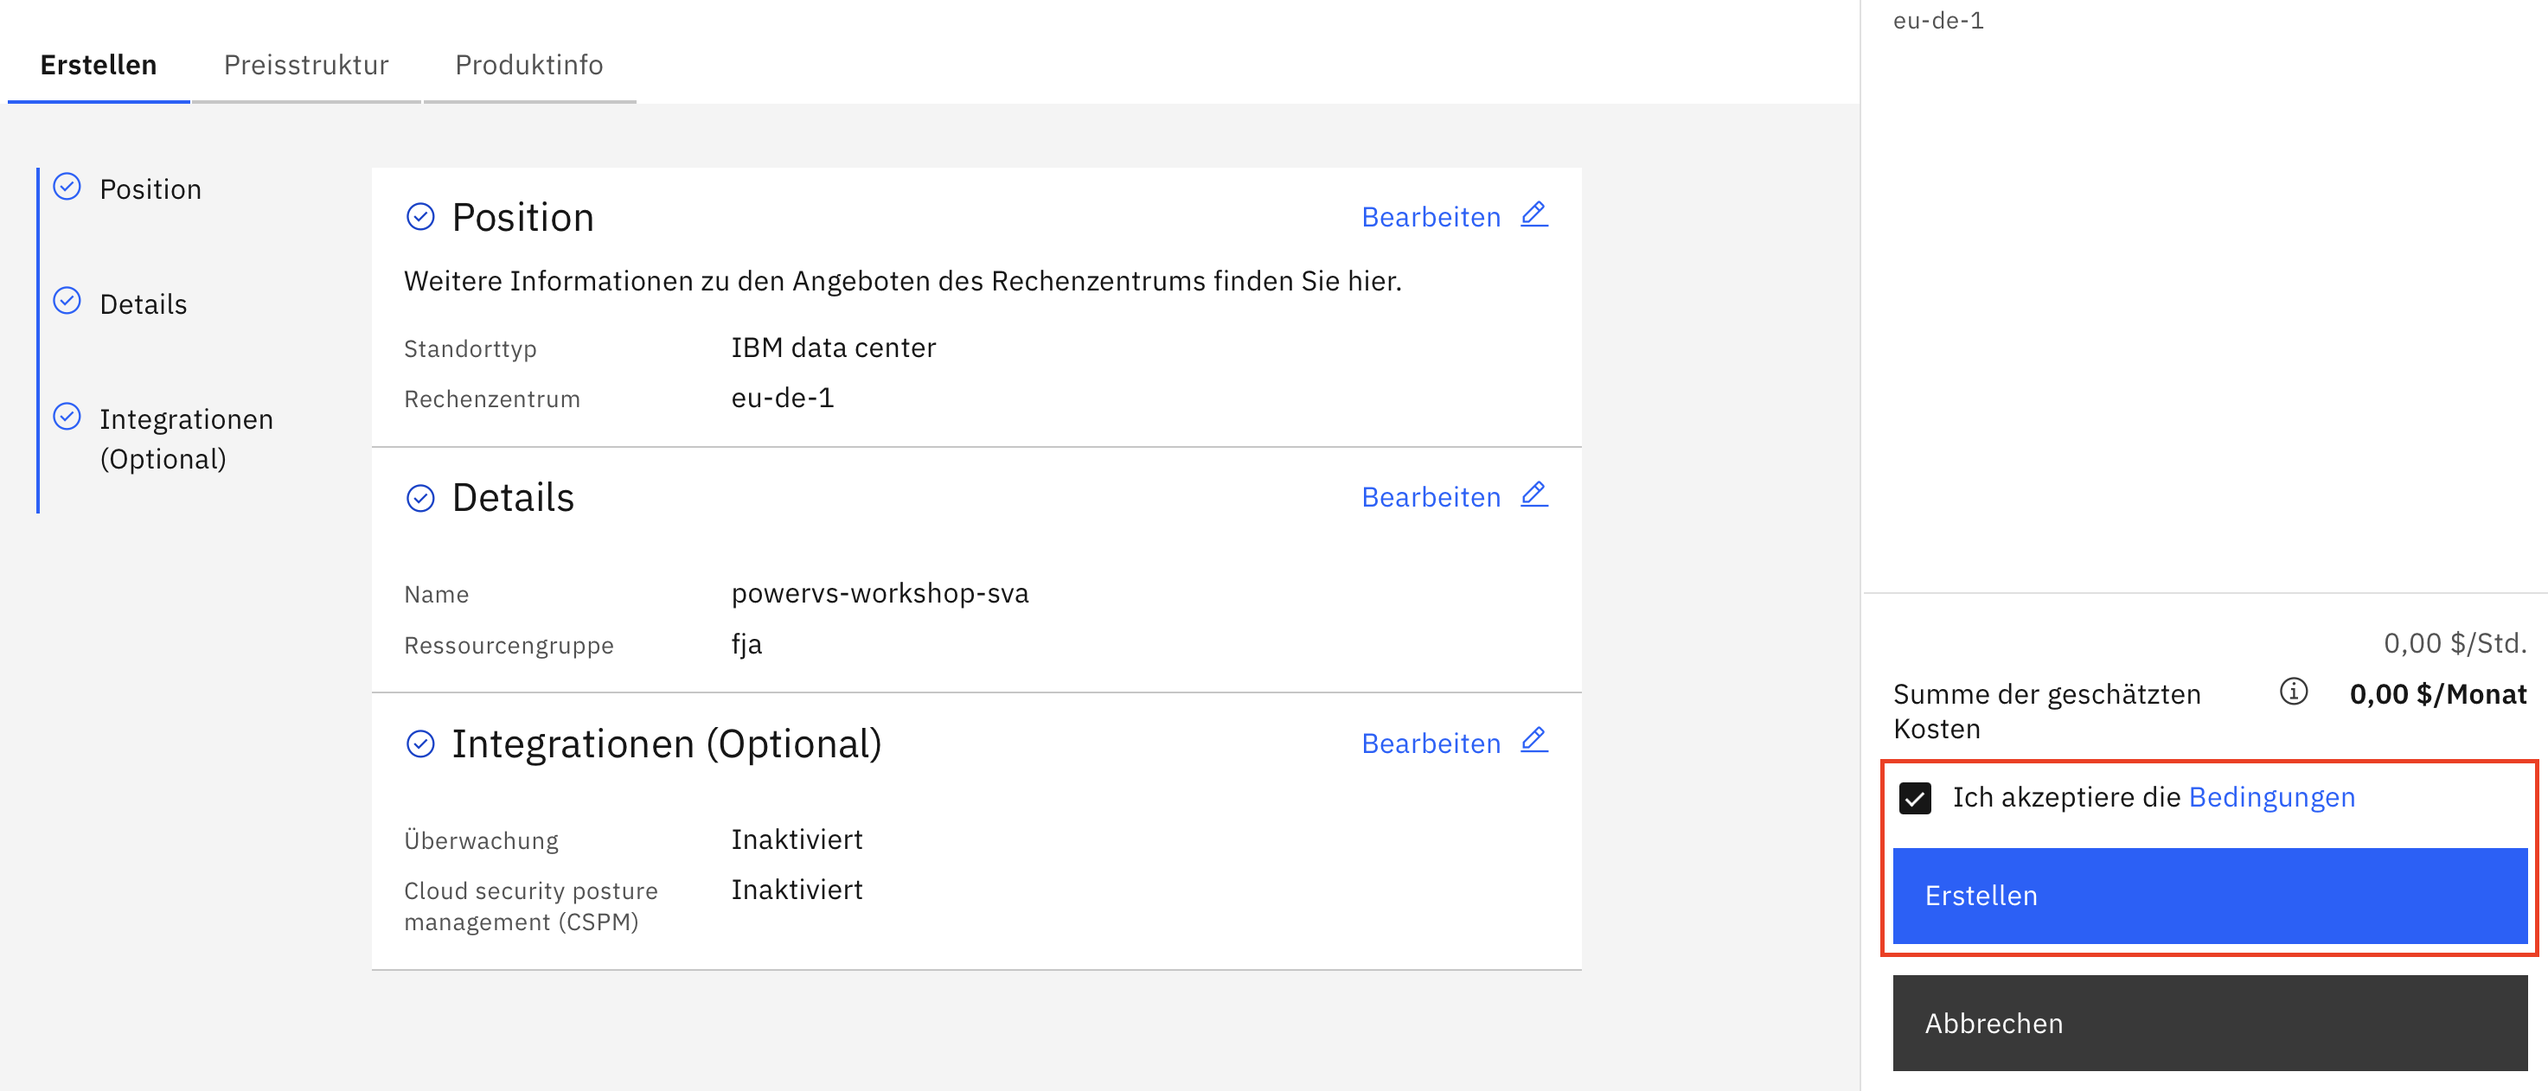
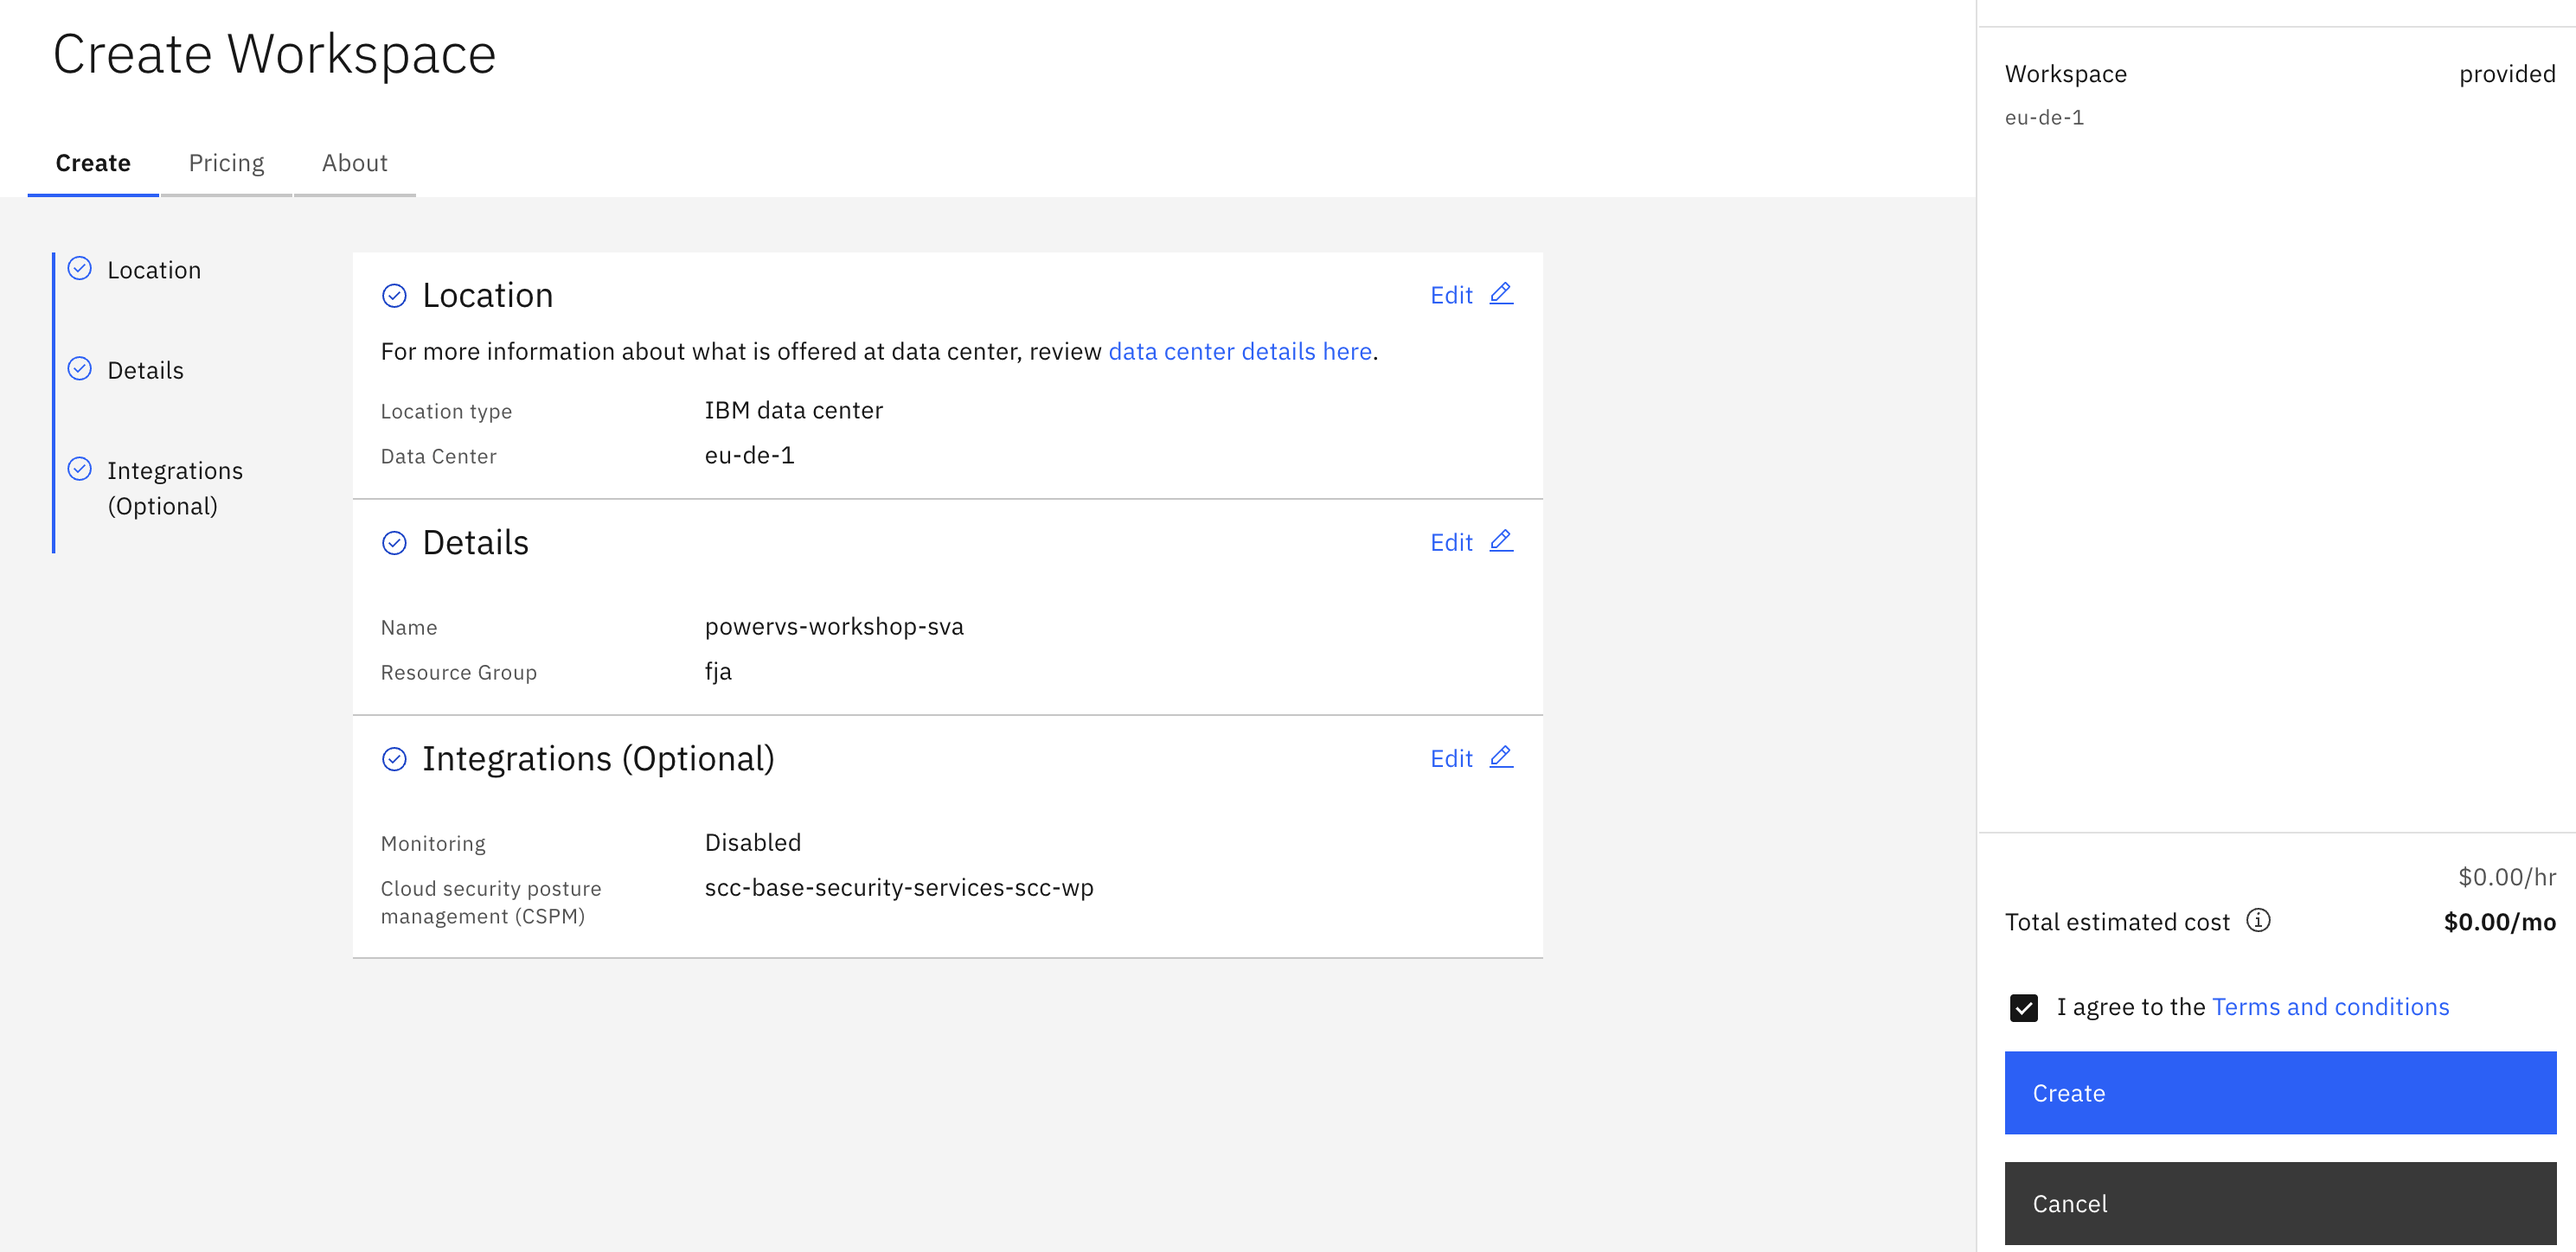
übersetzung eng + screenshots angepasst

diff --git a/01_Workspace_anlegen.md b/01_Workspace_anlegen.md
@@ -4,7 +4,7 @@
 
 - Melden Sie sich mit ihren Login-Daten in ihrem IBM Cloud Account an 
 
-- Suchen Sie im oberen Navigationsbalken nach ``Katalog`` 
+- Suchen Sie im oberen Navigationsbalken nach ``Catalog`` 
 
 - Suchen Sie im Suchfeld des Katalogs nach **PowerVS**
 
@@ -17,46 +17,51 @@
 ----
 ### Schritt 2 - PowerVS Workspace erstellen:
 
-- klicken Sie auf das Feld ``Arbeitsbereich erstellen``
+- klicken Sie auf das Feld ``Create a Workspace``
 
-- wählen Sie als **Standorttyp** - **IBM data center** 
+- wählen Sie als **Location type** - **IBM data center** 
 
-- wählen Sie als **Position** - **eu-de-1** oder **eu-de-2** (-> Datacenter in Frankfurt, es kann natürlich theoretisch jedes verfügbare Datacenter gewählt werden)
+- wählen Sie als **Location** - **eu-de-1** oder **eu-de-2** (-> Datacenter in Frankfurt, es kann natürlich theoretisch jedes verfügbare Datacenter gewählt werden)
 
 > [!NOTE]
 > Eine Auflistung der Standorte an denen Power Virtual Server zur Verfügung stehen finden Sie hier: [Power Virtual Server Regions](https://cloud.ibm.com/docs/power-iaas?topic=power-iaas-ibm-cloud-reg)
 
-- gehen Sie anschließend auf ``Weiter``
+- gehen Sie anschließend auf ``Continue``
 
 - wählen Sie einen Namen für den Workspace
 
-- als Ressourcengruppe wählen Sie die Ihnen zugeordente Ressourcengruppe 
+- als **Resource group** wählen Sie die Ihnen zugeordente Ressourcengruppe 
 
-- **Benutzertag** und **Zugriffsmanagementtags** können im Moment ignoeriert werden
+- **User tags** und **Access management tags** können im Moment ignoeriert werden
 
-- gehen Sie anschließend auf ``Weiter``
+- gehen Sie anschließend auf ``Continue``
 
 - der Punkt Monitoring ist optional  (zur optimalen Fehlerbehebung und der Reduzierung von Ausfallzeiten empfohlen) 
 
-- gehen Sie anschließend auf ``Fertigstellen``
+- gehen Sie anschließend auf ``Finish``
 
-- setzen Sie den Haken bei ***Ich akzeptiere die Bedingungen*** und wählen Sie zum Schluss ``Erstellen``
+- setzen Sie den Haken bei ***I agree to the Terms and Conditions*** und wählen Sie zum Schluss ``Create``
 
 <br/>
 <img src="_images/create_pvs_workspace.png" width="850">
 
 <br/>
 
-- nachdem der Workspace erstellt ist sollte dieser jetzt in der Ansicht **Arbeitsbereiche** sichtbar sein
+> [!NOTE]
+> Beim reinen anlegen eines Workspaces entstehen keine Kosten
 
-- klicken Sie auf Ihren erstellten Arbeitsbereich um mit den nächsten Schritten fortfahren zu können
+<br/>
+
+- nachdem der Workspace erstellt ist sollte dieser jetzt in der Ansicht **Workspaces** sichtbar sein
+
+- klicken Sie auf Ihren erstellten Workspace um mit den nächsten Schritten fortfahren zu können
 
 <br/>
 
 > [!TIP]
-> Falls Sie von irgendeinem Punkt in der IBM Cloud aus wieder schnell zu ihrem Workspace navigieren möchten, wählen sie über die Seitenleiste -> ``Ressourcenliste`` und suchen Sie unter **Datenverarbeitungsfunktionalität** Ihren Workspace
+> Falls Sie von irgendeinem Punkt in der IBM Cloud aus wieder schnell zu ihrem Workspace navigieren möchten, wählen sie über die Seitenleiste -> ``Resource list`` und suchen Sie unter **Compute** Ihren Workspace
 >
-> ![Navigation_Ressourcelist](https://github.ibm.com/felix-janakow/PowerVS-Workshop/blob/main/_images/nav_resourcelist.png)
+> ![Navigation_Ressourcelist](https://github.ibm.com/felix-janakow/PowerVS-Workshop/blob/main/_images/nav_resource-list.png)
 <br/>
 
 ----
@@ -64,45 +69,45 @@
 
 #### Subnetz erstellen
 
-- um ein Subnetz zu erstellen navigieren Sie innerhalb ihres Workspaces unter **Netzbetrieb** auf **Teilnetze**
+- um ein Subnetz zu erstellen navigieren Sie innerhalb ihres Workspaces unter **networking** auf **Subnets**
 
 <br/>
-<img src="_images/navbar_teilnetze.png" width="230">
+<img src="_images/navbar_subnets.png" width="230">
 
 <br/>
 
-- gehen Sie auf der rechten Seite auf das Feld `Teilnetz erstellen+`
+- gehen Sie auf der rechten Seite auf das Feld `Create Subnet +`
 
-- bennen Sie ihr Teilnetz
+- bennen Sie ihr Subnet
 
-- vergeben Sie Ihre für diese Übung vorgegebne Subnetz-Adresse 
+- vergeben Sie Ihre für diese Übung vorgegebne Subnet-Adresse 
 
 - lassen Sie die restlichen Werte standardmäßg und klicken sie auf ``Teilnetz erstellen``
 
 <br/>
-<img src="_images/create_subnet.png" width="255">
+<img src="_images/subnet_create.png" width="270">
 
 <br/>
 
 #### SHH-Key erstellen
 
-- um einen SSH-Key zu erstellen navigieren Sie innerhalb ihres Workspaces unter **Rechenressourcen** auf **SSH-Schlüssel**
+- um einen SSH-Key zu erstellen navigieren Sie innerhalb ihres Workspaces unter **Compute** auf **SSH-keys**
 
 <br/>
-<img src="_images/navbar_ssh-keys.png" width="230">
+<img src="_images/ssh-keys_navbar.png" width="230">
 
 <br/>
 
-- gehen sie auf der rechten Seite auf das Feld ``SSH-Schlüssel erstellen``
+- gehen Sie auf der rechten Seite auf das Feld ``Create SSH-Key``
 
-- vergeben sie einen Namen für den Key und fügen sie den öffentlichen Schlüssel ihres SSH-Keys im unteren Feld ein
+- vergeben Sie einen Namen für den Key und fügen Sie den öffentlichen Schlüssel ihres SSH-Keys im unteren Feld ein und drücken Sie auf ``Add SSH key``
 
 > [!NOTE]
 > Der SSH-Key sollte im vorhinein mit z.b. ``ssh-keygen`` (für Linux und MacOs) erstellt werden
 >
 > Beispiel: ``ssh-keygen -t rsa -b 4096 -C "test-key"``
 >
-> Mehr Infos zum generieren und nutzen von SSH-Keys in der offiziellen IBM Cloud Dokumentation -> [generieren und nutzen von SSH-Schlüsseln](https://cloud.ibm.com/docs/power-iaas?topic=power-iaas-creating-ssh-key)
+> Mehr Infos zum generieren und nutzen von SSH-Keys in der offiziellen IBM Cloud Dokumentation -> [generieren und nutzen von SSH-Keys](https://cloud.ibm.com/docs/power-iaas?topic=power-iaas-creating-ssh-key)
 
 <br/>
-<img src="_images/ssh-key-create.png" width="700">
+<img src="_images/ssh-key_create.png" width="650">
